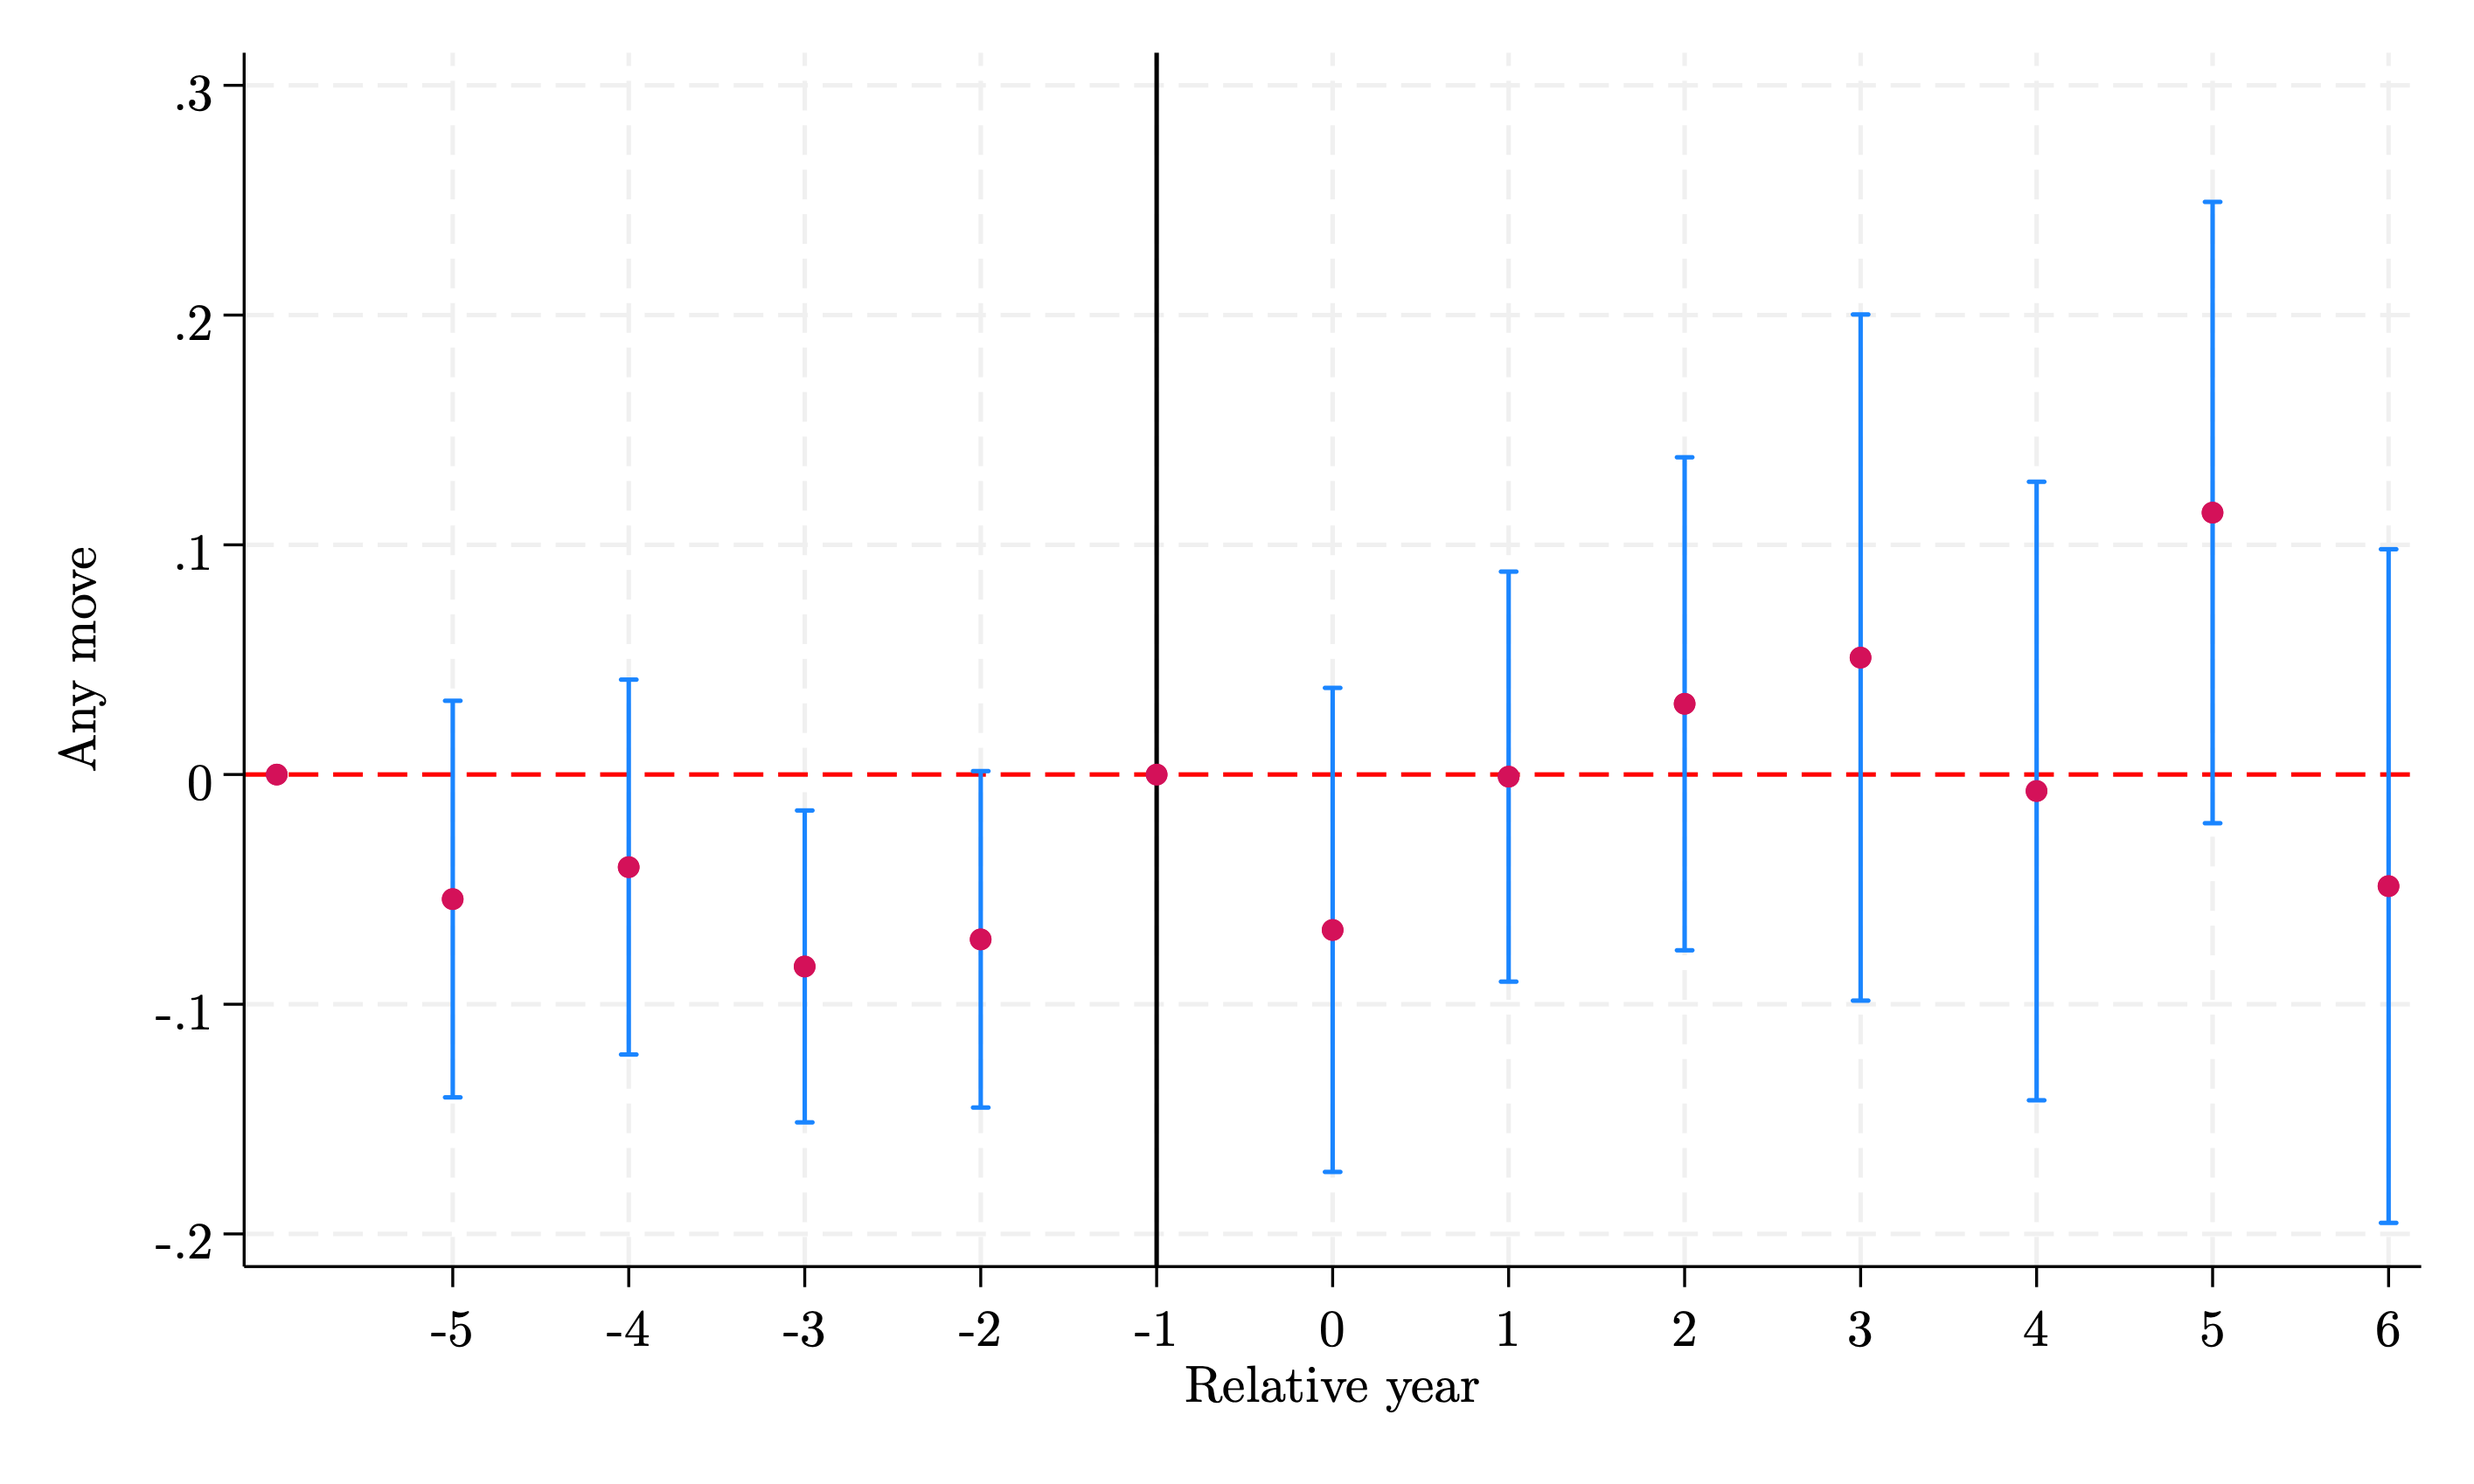
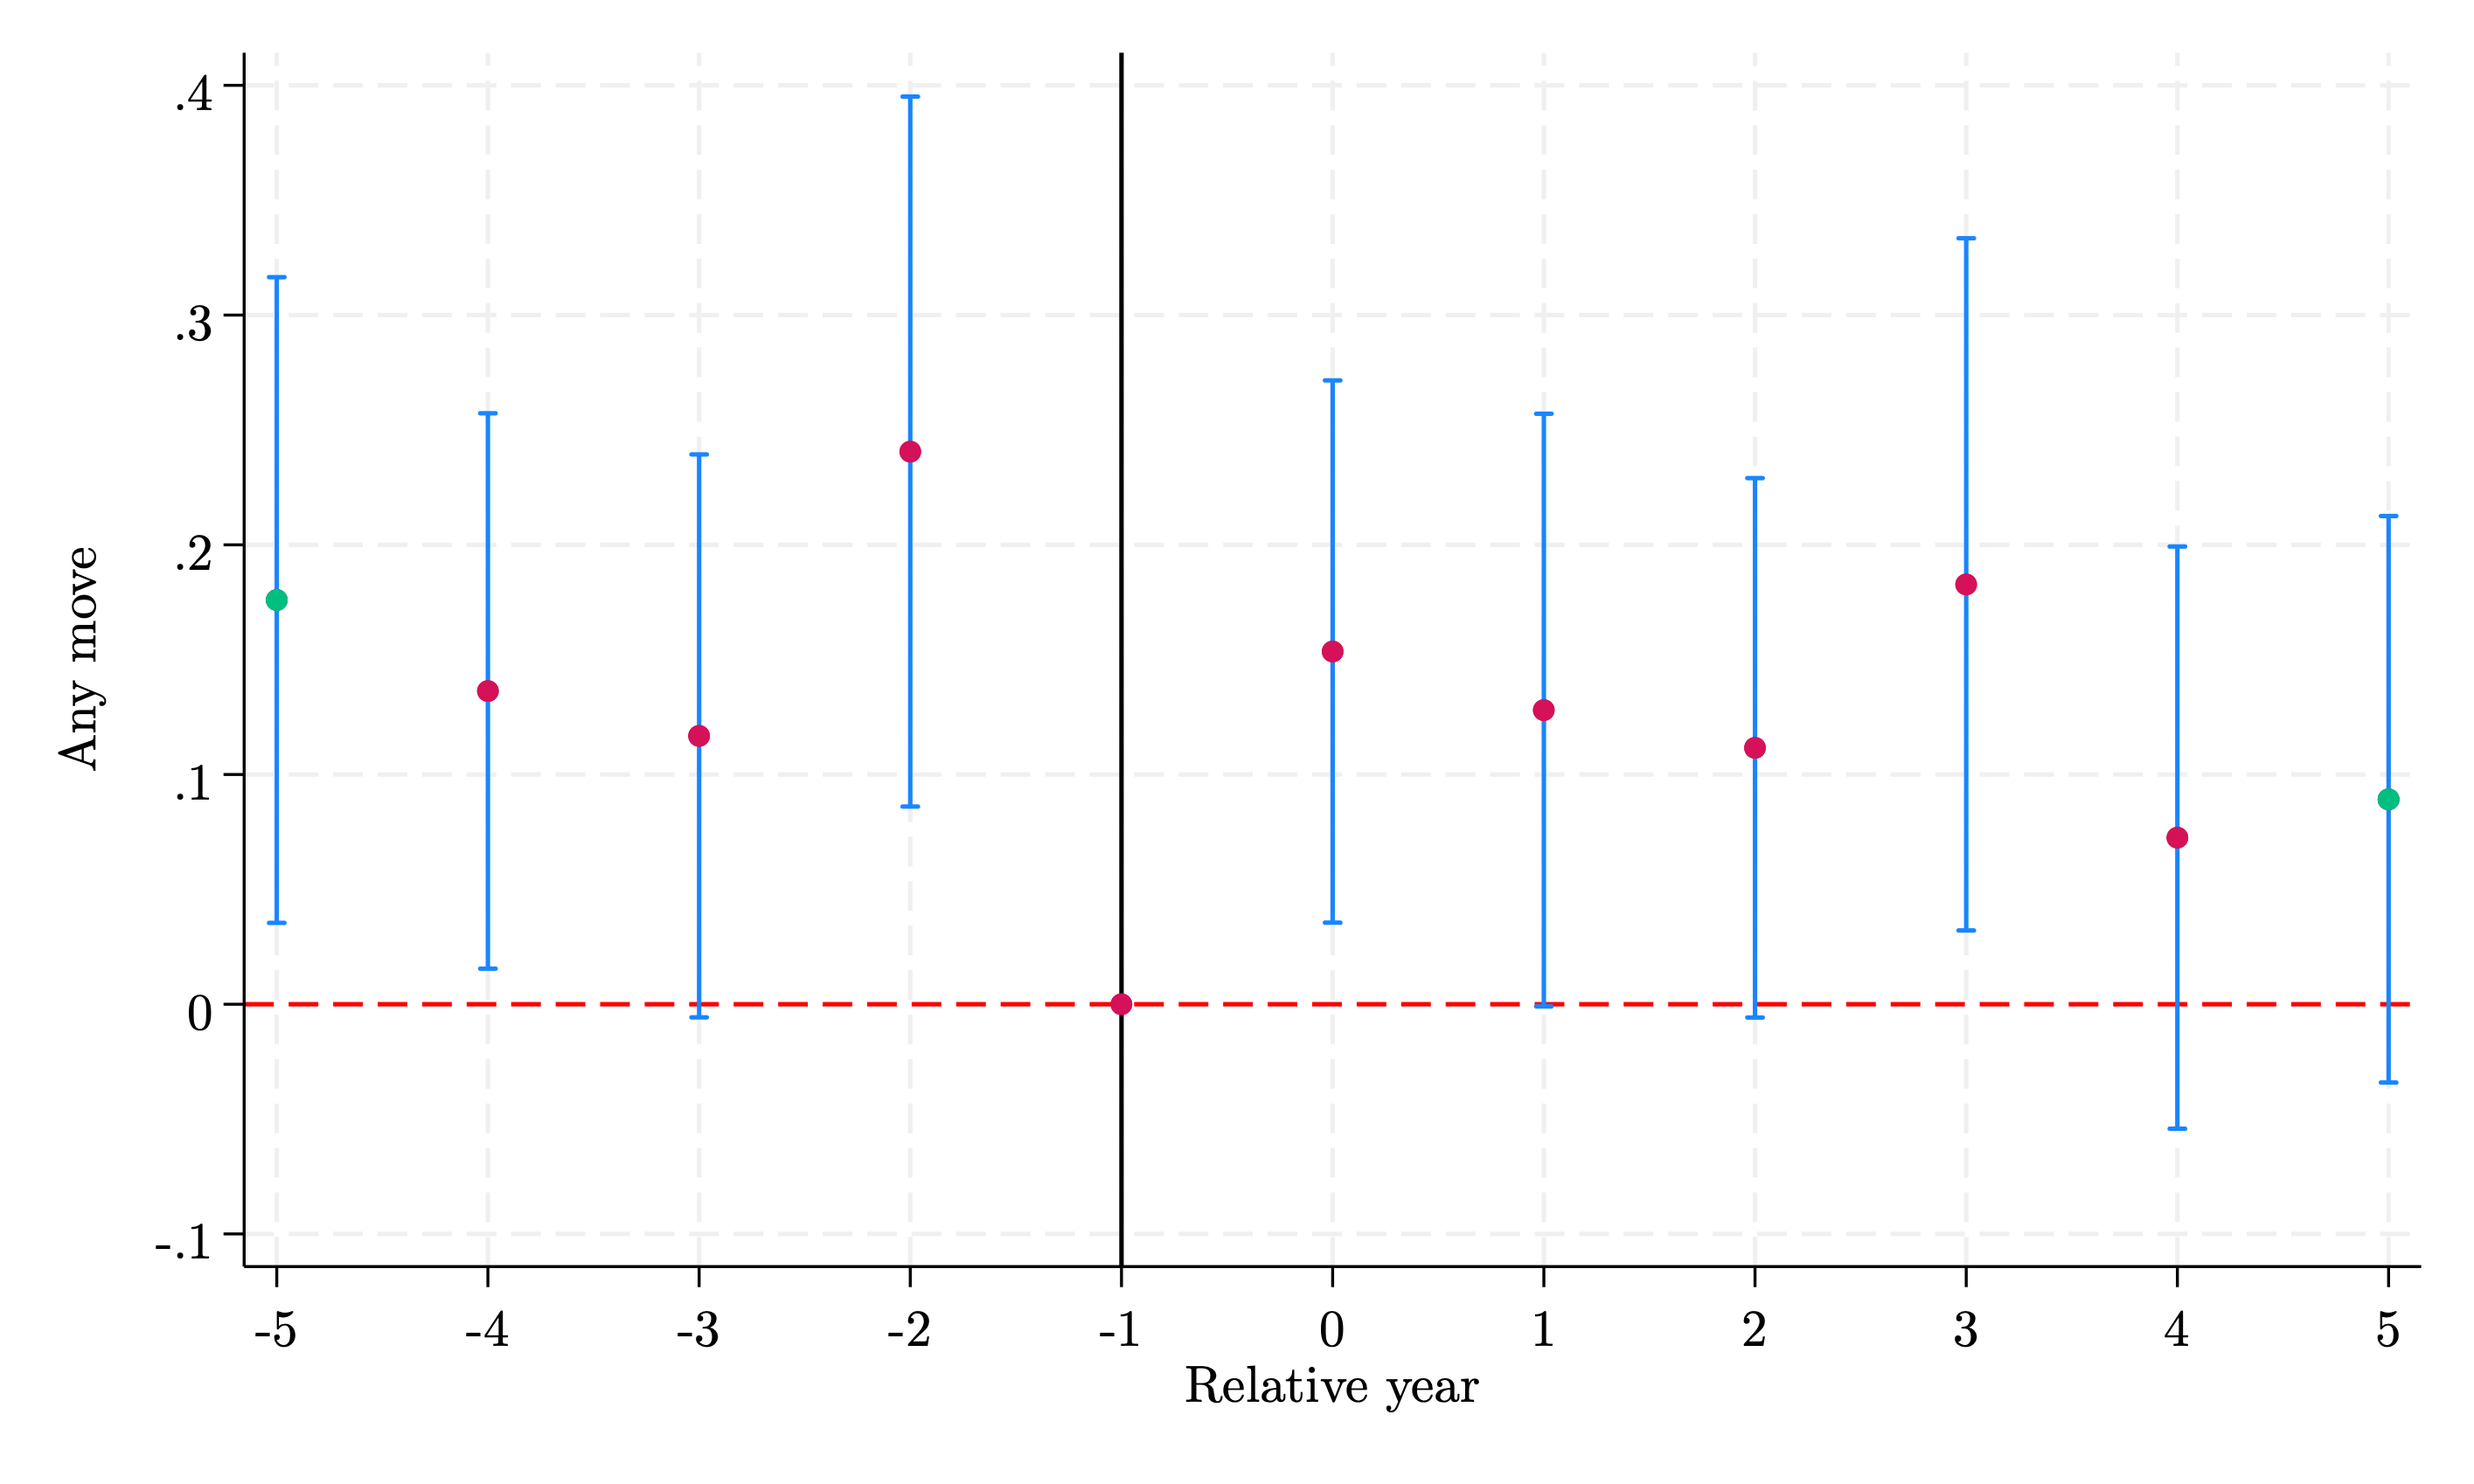
update using corrected plots

diff --git a/output/t2_sumstat.tex b/output/t2_sumstat.tex
@@ -7,23 +7,23 @@
  & (1) & (2) & (3) & (4) & (5) & (6) & (7) & (8) \\
 \midrule 
  Male  & 1.00 & 1.00 & 1.00 & 1.00 & 1.00 & 1.00 & 1.00 & 1.00\\
- Age  & 25.80 & 25.79 & 24.48 & 24.15 & 26.09 & 25.76 & 24.60 & 24.21\\
+ Age  & 25.67 & 25.67 & 24.39 & 24.06 & 25.94 & 25.65 & 24.54 & 24.12\\
  Exposure  & 0.00 & 1.00 & 0.00 & 1.00 & 0.00 & 1.00 & 0.00 & 1.00\\
- High School  & 0.47 & 0.45 & 0.75 & 0.75 & 0.50 & 0.44 & 0.76 & 0.75\\
- Any move  & 0.25 & 0.30 & 0.15 & 0.15 & 0.23 & 0.30 & 0.13 & 0.14\\
- Moved migpuma  & 0.13 & 0.15 & 0.05 & 0.04 & 0.11 & 0.14 & 0.04 & 0.03\\
- Moved state  & 0.10 & 0.12 & 0.02 & 0.02 & 0.09 & 0.12 & 0.02 & 0.02\\
+ High School  & 0.46 & 0.43 & 0.74 & 0.74 & 0.49 & 0.42 & 0.74 & 0.74\\
+ Any move  & 0.26 & 0.30 & 0.16 & 0.15 & 0.25 & 0.31 & 0.14 & 0.14\\
+ Moved migpuma  & 0.13 & 0.14 & 0.05 & 0.04 & 0.12 & 0.14 & 0.04 & 0.03\\
+ Moved state  & 0.11 & 0.12 & 0.02 & 0.02 & 0.10 & 0.12 & 0.02 & 0.01\\
  Married  & 0.00 & 0.00 & 0.00 & 0.00 & 0.00 & 0.00 & 0.00 & 0.00\\
- Never married  & 0.95 & 0.94 & 0.95 & 0.96 & 0.95 & 0.94 & 0.96 & 0.96\\
+ Never married  & 0.95 & 0.94 & 0.95 & 0.96 & 0.95 & 0.94 & 0.95 & 0.96\\
  Number of children  & 0.00 & 0.00 & 0.00 & 0.00 & 0.00 & 0.00 & 0.00 & 0.00\\
- Employed  & 0.83 & 0.86 & 0.62 & 0.64 & 0.83 & 0.86 & 0.62 & 0.63\\
- Weeks worked  & 40.22 & 40.19 & 32.52 & 34.50 & 41.77 & 39.48 & 32.96 & 33.84\\
- Usual weekly hours worked  & 34.80 & 35.52 & 25.94 & 26.50 & 34.28 & 35.31 & 25.80 & 26.01\\
- Wage income  & 22,276.52 & 21,021.75 & 21,335.57 & 20,729.42 & 22,453.22 & 20,338.72 & 21,923.57 & 20,341.03\\
- Owns a home  & 0.17 & 0.16 & 0.50 & 0.50 & 0.16 & 0.14 & 0.51 & 0.49\\
- Rent price  & 1,022.91 & 915.69 & 965.24 & 1,013.18 & 1,119.42 & 918.96 & 1,065.74 & 1,034.34\\
- Mortgage price  & 865.00 & 782.89 & 859.23 & 876.17 & 922.10 & 844.75 & 911.24 & 910.61\\
- Sample size  & 10,866.00 & 2,848.00 & 78,807.00 & 20,507.00 & 10,866.00 & 2,848.00 & 78,807.00 & 20,507.00\\
+ Employed  & 0.82 & 0.85 & 0.60 & 0.62 & 0.83 & 0.85 & 0.61 & 0.61\\
+ Weeks worked  & 40.22 & 40.19 & 32.52 & 34.50 & 41.63 & 39.47 & 32.93 & 33.82\\
+ Usual weekly hours worked  & 34.76 & 35.00 & 25.48 & 25.72 & 34.28 & 34.71 & 25.36 & 25.34\\
+ Wage income  & 21,433.77 & 20,044.61 & 20,660.92 & 20,098.13 & 21,474.04 & 19,307.86 & 21,207.97 & 19,856.42\\
+ Owns a home  & 0.16 & 0.15 & 0.50 & 0.50 & 0.16 & 0.14 & 0.51 & 0.50\\
+ Rent price  & 991.83 & 894.52 & 936.61 & 1,000.08 & 1,063.75 & 891.13 & 1,011.50 & 1,017.27\\
+ Mortgage price  & 864.22 & 818.77 & 856.64 & 915.01 & 898.11 & 861.30 & 896.70 & 939.16\\
+ Sample size  & 12,675.00 & 3,474.00 & 95,563.00 & 28,676.00 & 12,675.00 & 3,474.00 & 95,563.00 & 28,676.00\\
 \bottomrule
 \bottomrule
 \end{tabular}

diff --git a/output/t3_inmigtarget.tex b/output/t3_inmigtarget.tex
@@ -6,19 +6,19 @@
  & Targeted & Placebo & Targeted & Placebo \\
  & (1) & (2)  & (3) & (4)  \\
 \midrule 
- Any move & 0.0396*** & 0.0010 & 0.0398*** & 0.0004 \\
- \textit{SE} & (0.0146) & (0.0050) & (0.0142) & (0.0049) \\
- \textit{R2} & 0.1213 & 0.0891 & 0.0791 & 0.0662  \\
+ Any move & 0.0429*** & 0.0074 & 0.0379*** & 0.0051 \\
+ \textit{SE} & (0.0142) & (0.0048) & (0.0144) & (0.0044) \\
+ \textit{R2} & 0.1137 & 0.0890 & 0.0781 & 0.0710  \\
 \\
- Move migpuma & 0.0211* & -0.0014 & 0.0181 & -0.0019 \\
- \textit{SE} & (0.0126) & (0.0027) & (0.0123) & (0.0023) \\
- \textit{R2} & 0.1388 & 0.0594 & 0.0835 & 0.0353  \\
+ Move migpuma & 0.0185 & 0.0014 & 0.0126 & -0.0010 \\
+ \textit{SE} & (0.0121) & (0.0026) & (0.0118) & (0.0020) \\
+ \textit{R2} & 0.1240 & 0.0541 & 0.0759 & 0.0318  \\
 \\
- Move state & 0.0227* & 0.0019 & 0.0205* & 0.0002 \\
- \textit{SE} & (0.0121) & (0.0016) & (0.0120) & (0.0014) \\
- \textit{R2} & 0.1451 & 0.0530 & 0.0839 & 0.0235  \\
+ Move state & 0.0208* & 0.0014 & 0.0148 & 0.0003 \\
+ \textit{SE} & (0.0117) & (0.0015) & (0.0116) & (0.0013) \\
+ \textit{R2} & 0.1285 & 0.0494 & 0.0768 & 0.0216  \\
 \\
-Sample Size  & 13,581  & 99,299  & 13,581  & 99,299 \\
+Sample Size  & 16,025  & 124,229  & 15,903  & 123,159 \\
 \midrule
 \midrule
  \multicolumn{5}{c}{Panel B: Out migration}  \\
@@ -26,19 +26,19 @@ Sample Size  & 13,581  & 99,299  & 13,581  & 99,299 \\
  & Targeted & Placebo & Targeted & Placebo \\
  & (5) & (6)  & (7) & (8)  \\
 \midrule 
- Any move & 0.0255 & -0.0019 & 0.0313 & -0.0013 \\
- \textit{SE} & (0.0175) & (0.0085) & (0.0193) & (0.0071) \\
- \textit{R2} & 0.3558 & 0.1125 & 0.3376 & 0.1121  \\
+ Any move & 0.0230 & 0.0037 & 0.0360 & 0.0018 \\
+ \textit{SE} & (0.0209) & (0.0089) & (0.0224) & (0.0076) \\
+ \textit{R2} & 0.3438 & 0.1101 & 0.3320 & 0.1131  \\
 \\
- Move migpuma & -0.0054 & -0.0014 & -0.0026 & -0.0006 \\
- \textit{SE} & (0.0120) & (0.0090) & (0.0121) & (0.0065) \\
- \textit{R2} & 0.6920 & 0.1526 & 0.7449 & 0.2441  \\
+ Move migpuma & -0.0010 & 0.0030 & -0.0055 & 0.0000 \\
+ \textit{SE} & (0.0139) & (0.0077) & (0.0104) & (0.0058) \\
+ \textit{R2} & 0.6828 & 0.1475 & 0.7525 & 0.2538  \\
 \\
- Move state & -0.0044 & -0.0026 & 0.0017 & -0.0013 \\
- \textit{SE} & (0.0060) & (0.0032) & (0.0032) & (0.0026) \\
- \textit{R2} & 0.8396 & 0.2667 & 0.8984 & 0.3902  \\
+ Move state & 0.0049 & -0.0030 & 0.0039 & -0.0022 \\
+ \textit{SE} & (0.0059) & (0.0034) & (0.0043) & (0.0028) \\
+ \textit{R2} & 0.8304 & 0.2618 & 0.8951 & 0.3903  \\
 \\
-Sample Size  & 12,044  & 86,286  & 12,044  & 86,286 \\
+Sample Size  & 14,851  & 111,680  & 14,715  & 110,596 \\
 \bottomrule
 \bottomrule
 \end{tabular}
